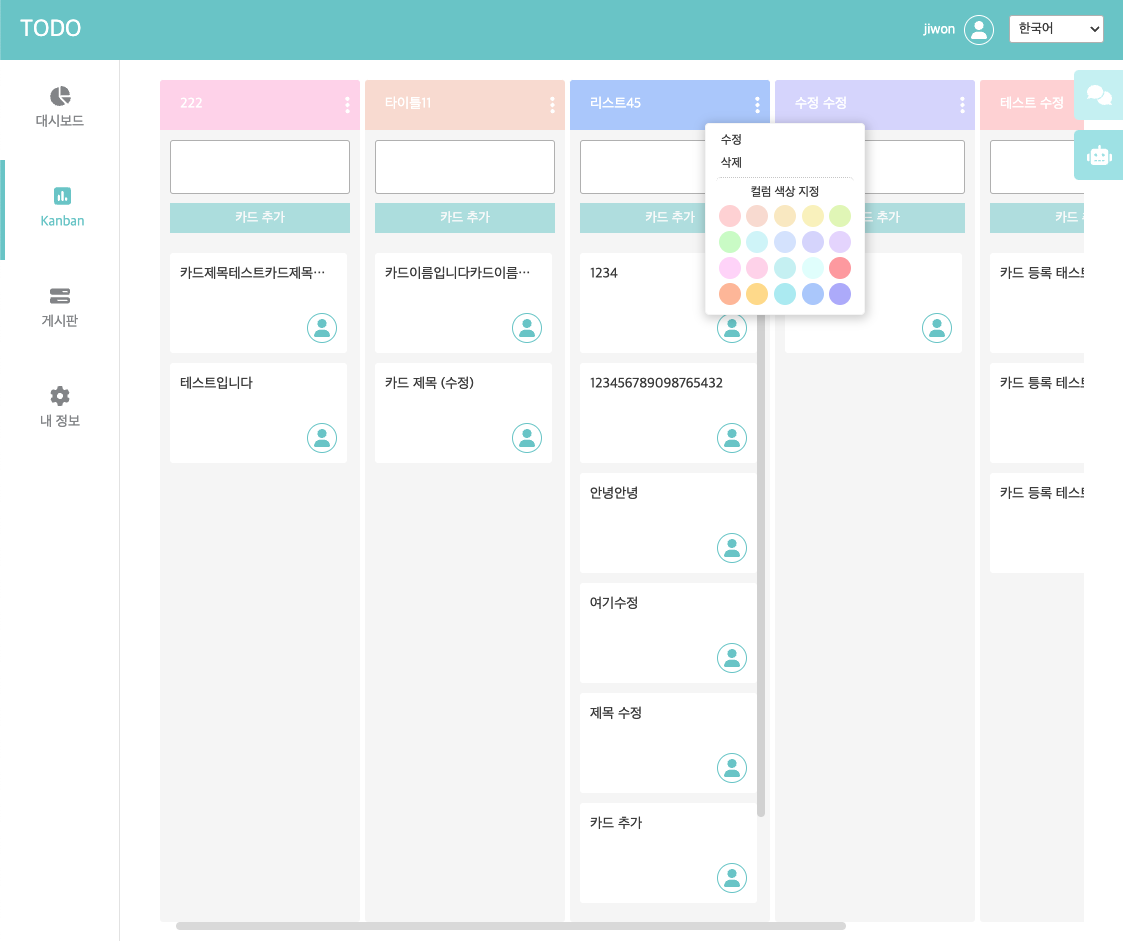
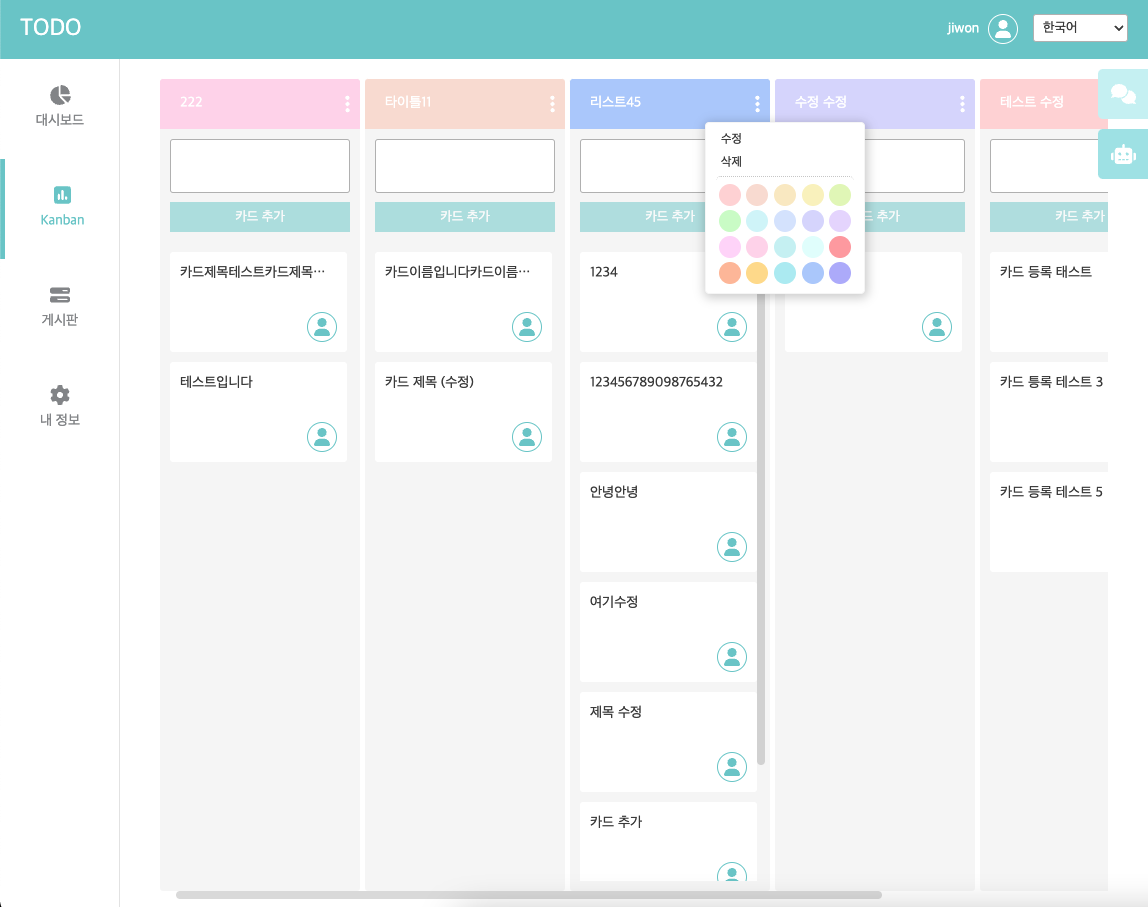
kanban 이미지 변경

diff --git a/frontend/src/components/common/ChangeColor.vue b/frontend/src/components/common/ChangeColor.vue
@@ -1,6 +1,6 @@
 <template>
   <div id="color-box">
-    <span style="display: flex;justify-content: center;">컬럼 색상 지정</span>
+<!--    <span style="display: flex;justify-content: center;">색상 지정</span>-->
     <ul>
       <li v-for="item in list" :key="item" :style="`background:${item.color}`" @click="setColor(item.color)"></li>
     </ul>
